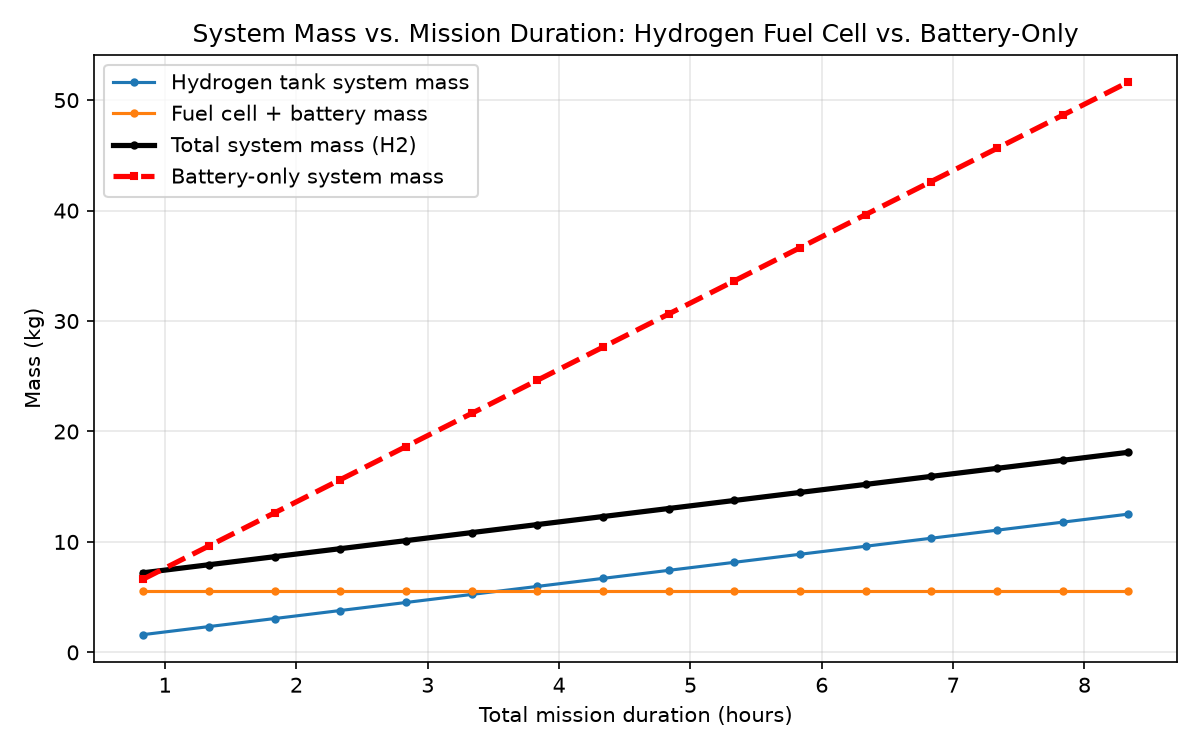
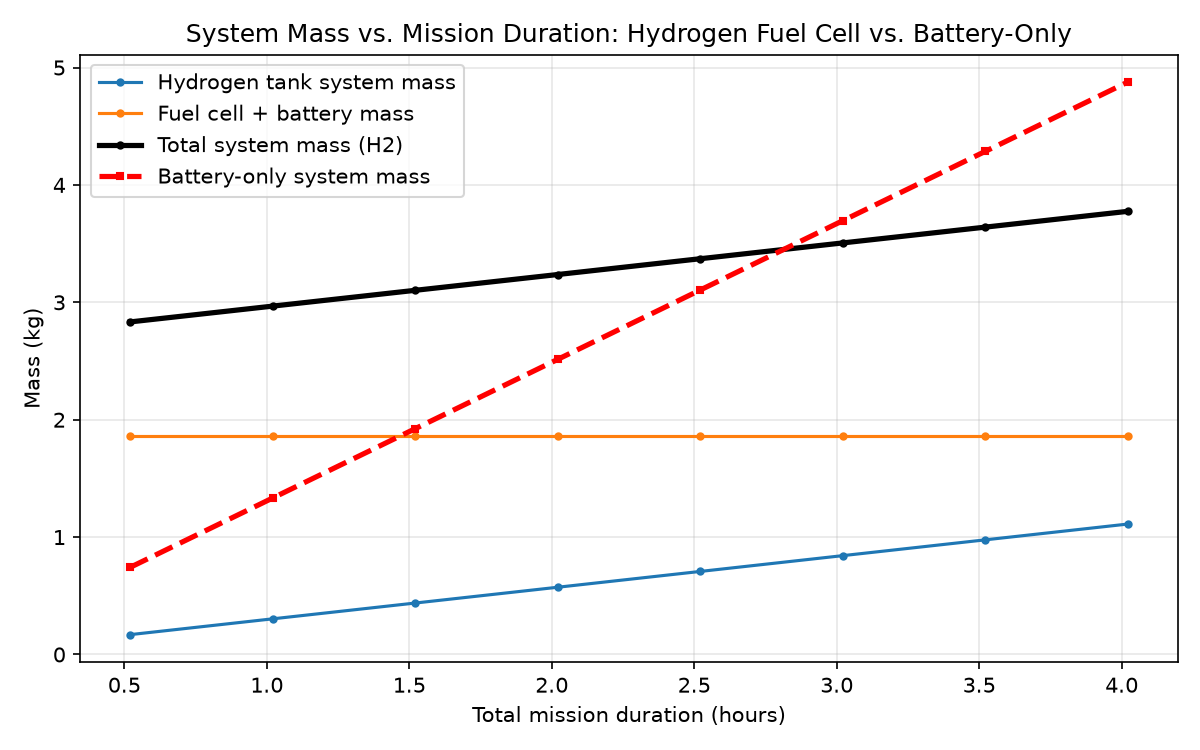
Add real UAV mission profile and sizing results

diff --git a/src/plot_results.py b/src/plot_results.py
@@ -76,11 +76,9 @@ def sweep_mission_duration(cruise_powers_w, cruise_hours_list):
     rows = []
     for hours in cruise_hours_list:
         phases = [
-            {"name": "takeoff", "duration_hours": 0.05, "power_w": 4000},
-            {"name": "climb", "duration_hours": 0.15, "power_w": 2500},
+            {"name": "takeoff", "duration_hours": 1.25 / 60, "power_w": 60 * 22.2},
             {"name": "cruise", "duration_hours": hours, "power_w": cruise_powers_w},
-            {"name": "descent", "duration_hours": 0.1, "power_w": 600},
-            {"name": "landing", "duration_hours": 0.05, "power_w": 3000},
+            {"name": "landing", "duration_hours": 1.0 / 60, "power_w": 27.5 * 22.2},
         ]
         mission = multi_phase_mission(phases)
         peak_power_w = mission_peak_power_w(mission)
@@ -122,13 +120,11 @@ def plot_duration_tradeoff(df, save_path="duration_tradeoff.png"):
 
 
 if __name__ == "__main__":
-    # Base mission for the stack fraction sweep
+    # Real mission: Evolonic VTOL UAV fuel cell retrofit thesis
     phases = [
-        {"name": "takeoff", "duration_hours": 0.05, "power_w": 4000},
-        {"name": "climb", "duration_hours": 0.15, "power_w": 2500},
-        {"name": "cruise", "duration_hours": 3.0, "power_w": 1200},
-        {"name": "descent", "duration_hours": 0.1, "power_w": 600},
-        {"name": "landing", "duration_hours": 0.05, "power_w": 3000},
+        {"name": "takeoff", "duration_hours": 1.25 / 60, "power_w": 60 * 22.2},
+        {"name": "cruise", "duration_hours": 59.5 / 60, "power_w": 10 * 22.2},
+        {"name": "landing", "duration_hours": 1.0 / 60, "power_w": 27.5 * 22.2},
     ]
     mission = multi_phase_mission(phases)
     peak_power_w = mission_peak_power_w(mission)
@@ -139,5 +135,7 @@ if __name__ == "__main__":
     plot_stack_fraction_tradeoff(df_stack, save_path="notebooks/stack_fraction_tradeoff.png")
 
     print("\n=== Sweep 2: Mission duration scaling ===")
-    df_duration = sweep_mission_duration(cruise_powers_w=1200, cruise_hours_list=np.arange(0.5, 8.5, 0.5))
+    # Using the real cruise power (222W = 10A x 22.2V); sweeping cruise duration
+    # from 30 min to 4 hours to see how far this system could fly with a bigger tank
+    df_duration = sweep_mission_duration(cruise_powers_w=222, cruise_hours_list=np.arange(0.5, 4.5, 0.5))
     plot_duration_tradeoff(df_duration, save_path="notebooks/duration_tradeoff.png")
